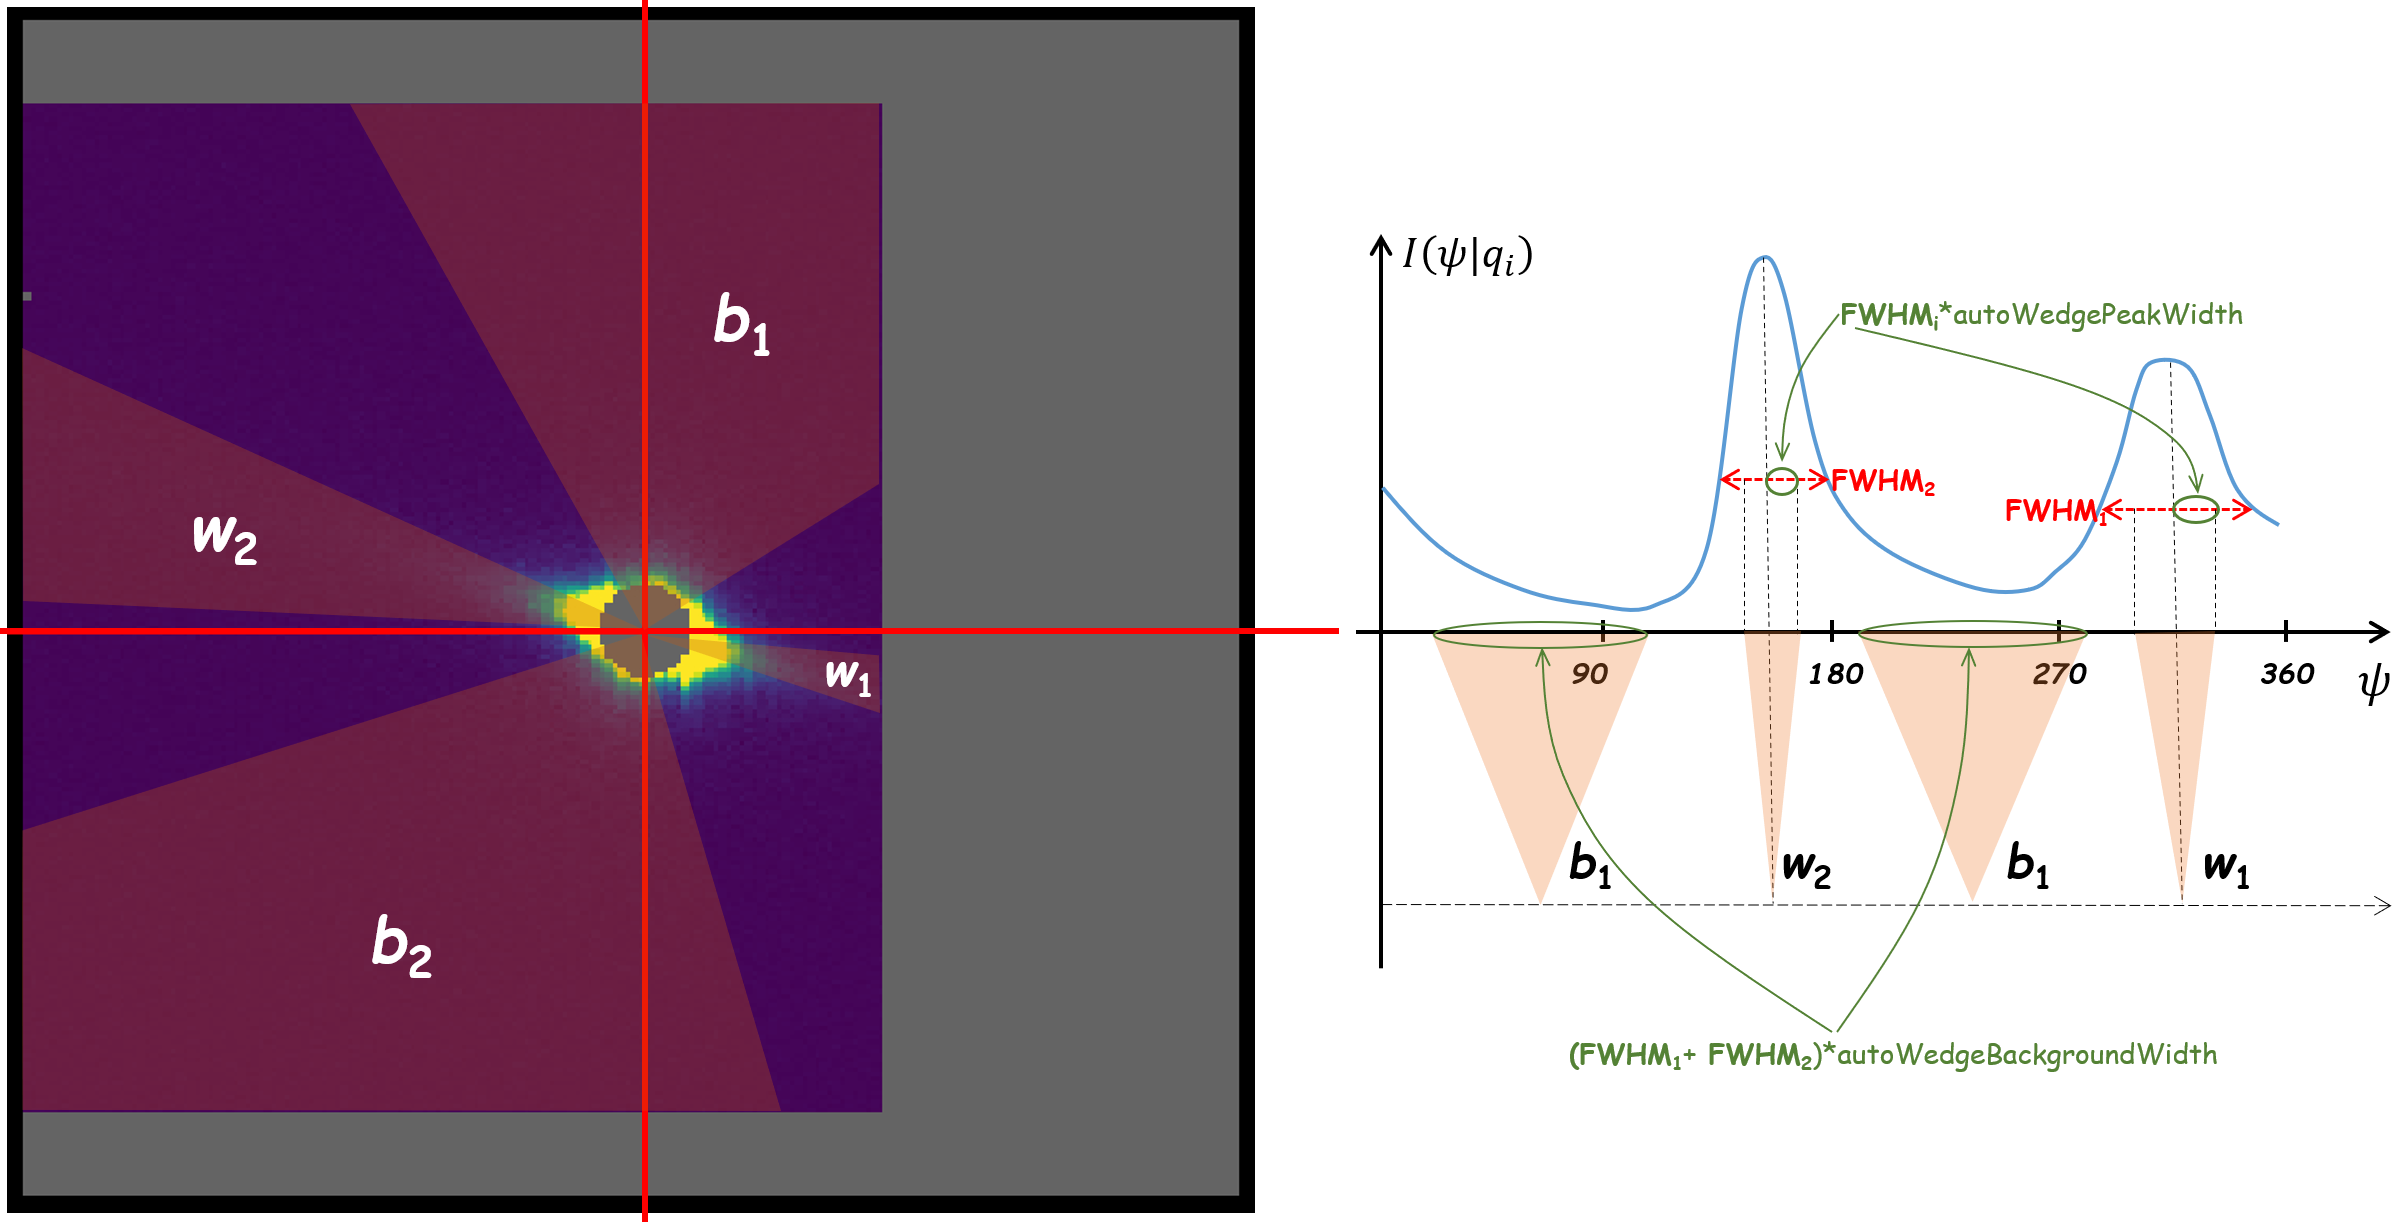
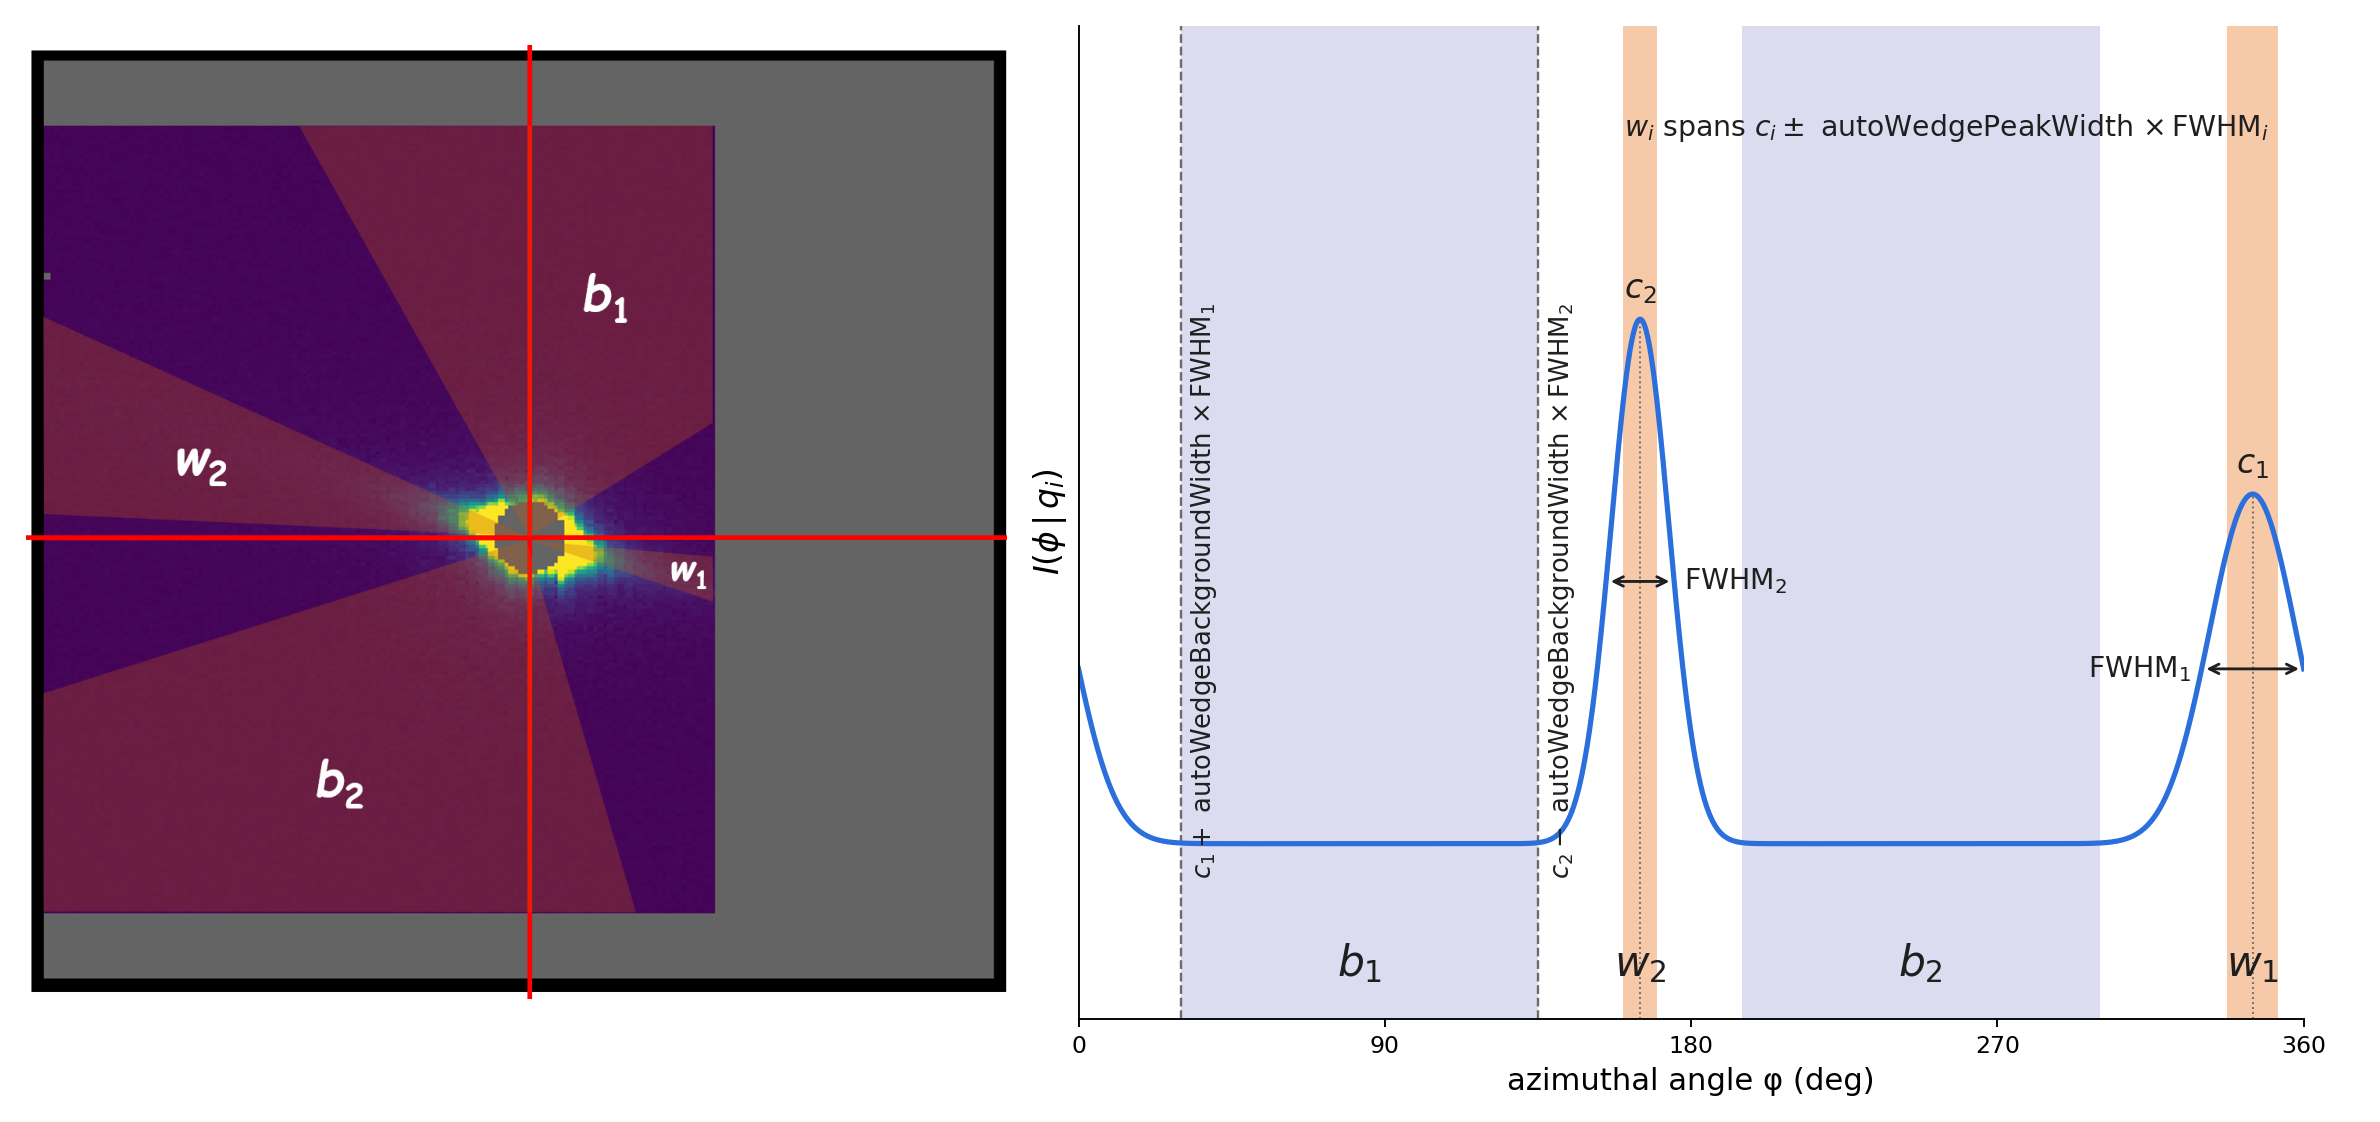
Redraw the BIOSANS auto-wedge figure with phi and the correct wedge limits
The azimuthal profile now labels the background wedges b1 and b2 once each and
shows their limits as the fitted centers plus or minus autoWedgeBackgroundWidth
times the FWHM.

diff --git a/docs/user/media/scripts/auto_wedge_biosans.py b/docs/user/media/scripts/auto_wedge_biosans.py
@@ -1,0 +1,88 @@
+"""Draw wedge_binning_7.png for docs/user/binning.rst, section "Automatic Finding of the Wedge".
+
+The left half is the BIOSANS main detector with the peak wedges w1, w2 and the background wedges b1, b2 found for a
+real sample. The right half is a fictitious azimuthal profile I(phi | q_i) with the same wedge orientation, showing
+how the wedge limits follow from the fitted centers c1, c2 and widths FWHM1, FWHM2.
+
+Usage: python auto_wedge_biosans.py <detector.png> <output.png>
+"""
+
+import argparse
+
+import matplotlib
+
+matplotlib.use("Agg")
+import matplotlib.pyplot as plt  # noqa: E402
+import numpy as np  # noqa: E402
+
+SIGMA_TO_FWHM = 2.0 * np.sqrt(2.0 * np.log(2.0))
+BACKGROUND = 0.25  # fictitious flat background A0
+PEAKS = [(345.0, 30.0, 0.50), (165.0, 20.0, 0.75)]  # fictitious center (deg), FWHM (deg) and height of peaks 1, 2
+PEAK_WIDTH, BACKGROUND_WIDTH = 0.25, 1.5  # autoWedgePeakWidth and autoWedgeBackgroundWidth of the JSON example
+INK, MUTED, CURVE, PEAK_SHADE, BACKGROUND_SHADE = "#1f1f1f", "#6b6b6b", "#2a6fdb", "#f6c9a8", "#dcdcf0"
+
+
+def profile(phi: np.ndarray) -> np.ndarray:
+    """Flat background plus the two Gaussian peaks, periodic in phi (deg)."""
+    total = np.full_like(phi, BACKGROUND)
+    for center, fwhm, height in PEAKS:
+        distance = (phi - center + 180.0) % 360.0 - 180.0
+        total += height * np.exp(-0.5 * (distance * SIGMA_TO_FWHM / fwhm) ** 2)
+    return total
+
+
+def wedges(ax: plt.Axes) -> None:
+    """Shade the peak wedges w1, w2 and the background wedges b1, b2 and label their limits."""
+    (c1, fwhm1, _), (c2, fwhm2, _) = PEAKS
+    b1 = ((c1 + BACKGROUND_WIDTH * fwhm1) % 360.0, c2 - BACKGROUND_WIDTH * fwhm2)
+    b2 = (c2 + BACKGROUND_WIDTH * fwhm2, c1 - BACKGROUND_WIDTH * fwhm1)
+    for name, (start, stop) in [("$b_1$", b1), ("$b_2$", b2)]:
+        ax.axvspan(start, stop, color=BACKGROUND_SHADE, lw=0, zorder=0)
+        ax.text((start + stop) / 2, 0.06, name, fontsize=18, ha="center", color=INK)
+    for index, (center, fwhm, height) in enumerate(PEAKS):
+        ax.axvspan(center - PEAK_WIDTH * fwhm, center + PEAK_WIDTH * fwhm, color=PEAK_SHADE, lw=0, zorder=0)
+        ax.text(center, 0.06, f"$w_{index + 1}$", fontsize=18, ha="center", color=INK)
+        half = BACKGROUND + height / 2
+        ax.annotate("", xy=(center - fwhm / 2, half), xytext=(center + fwhm / 2, half),
+                    arrowprops=dict(arrowstyle="<->", color=INK, lw=1.2))  # fmt: skip
+        side = 1.0 if center < 270.0 else -1.0  # keep the label inside the plot
+        ax.text(center + side * (fwhm / 2 + 3), half, rf"$\mathrm{{FWHM}}_{index + 1}$", fontsize=12, va="center",
+                ha="left" if side > 0 else "right", color=INK)  # fmt: skip
+        ax.plot([center, center], [0.0, BACKGROUND + height], color=MUTED, lw=0.8, ls=":")
+        ax.text(center, BACKGROUND + height + 0.03, f"$c_{index + 1}$", fontsize=14, ha="center", color=INK)
+    ax.text(255.0, 1.25, r"$w_i$ spans $c_i \pm$ autoWedgePeakWidth $\times\,\mathrm{FWHM}_i$", fontsize=12,
+            ha="center", va="bottom", color=INK)  # fmt: skip
+    for edge, label in [
+        (b1[0], r"$c_1 +$ autoWedgeBackgroundWidth $\times\,\mathrm{FWHM}_1$"),
+        (b1[1], r"$c_2 -$ autoWedgeBackgroundWidth $\times\,\mathrm{FWHM}_2$"),
+    ]:
+        ax.axvline(edge, color=MUTED, lw=1, ls="--", zorder=1)
+        ax.text(edge + 2.5, 0.2, label, rotation=90, fontsize=11, va="bottom", color=INK)
+
+
+def draw(detector: str, output: str) -> None:
+    """Draw the figure from the detector image ``detector`` and save it to ``output``."""
+    fig, (left, right) = plt.subplots(1, 2, figsize=(14.0, 6.6), dpi=170, gridspec_kw=dict(width_ratios=[1, 1.25]))
+    left.imshow(plt.imread(detector))
+    left.axis("off")
+    phi = np.linspace(0.0, 360.0, 1441)
+    wedges(right)
+    right.plot(phi, profile(phi), color=CURVE, lw=2.2, zorder=2)
+    right.set_xlim(0.0, 360.0)
+    right.set_ylim(0.0, 1.42)
+    right.set_xticks(np.arange(0, 361, 90))
+    right.set_yticks([])
+    right.set_xlabel("azimuthal angle φ (deg)", fontsize=13)
+    right.set_ylabel(r"$I(\phi\,|\,q_i)$", fontsize=14)
+    right.spines[["top", "right"]].set_visible(False)
+    fig.tight_layout()
+    fig.savefig(output)
+    plt.close(fig)
+
+
+if __name__ == "__main__":
+    parser = argparse.ArgumentParser(description=__doc__.splitlines()[0])
+    parser.add_argument("detector", help="path of the cropped BIOSANS detector image")
+    parser.add_argument("output", help="path of the PNG file to write")
+    arguments = parser.parse_args()
+    draw(arguments.detector, arguments.output)

diff --git a/docs/user/binning.rst b/docs/user/binning.rst
@@ -160,6 +160,10 @@ perpendicular to them, which give the background :math:`I(q)` output.
    :alt: wedges for a real BIOSANS example
    :width: 900px
 
+   Left: peak wedges :math:`w_1, w_2` and background wedges :math:`b_1, b_2` on the BIOSANS main detector.
+   Right: a fictitious :math:`I(\phi\,|\,q_i)` with the same orientation, showing how the wedge limits follow from
+   the fitted centers :math:`c_1, c_2` and widths :math:`\mathrm{FWHM}_1, \mathrm{FWHM}_2`.
+
 .. _user.binning.auto_wedge_method:
 
 How Automatic Wedge Finding Works
